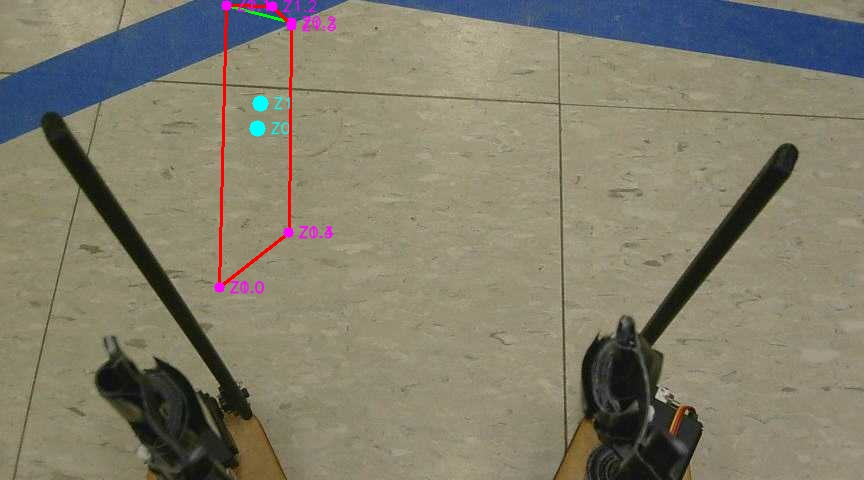
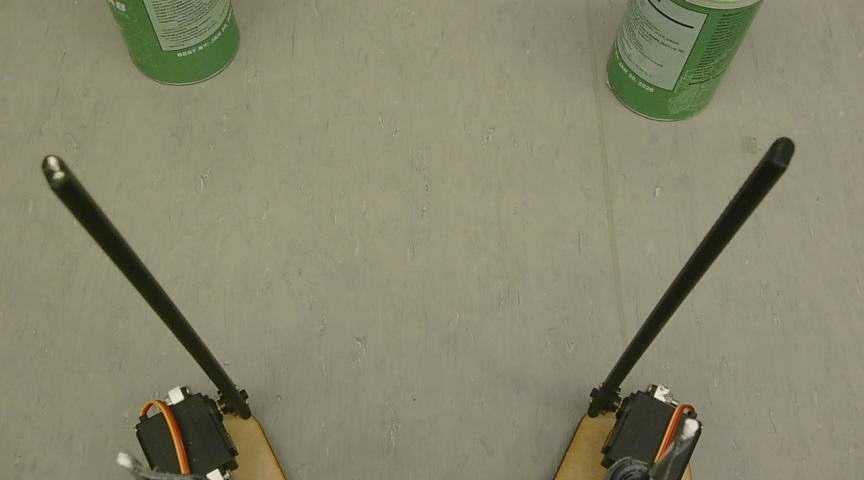
stuff

diff --git a/RobotHandler_Simple.py b/RobotHandler_Simple.py
@@ -45,7 +45,7 @@ class RobotHandlerSimple:
 
         # Memory
         # Hardcoded zone centers for testing
-        self.zones: list[np.ndarray] = []
+        self.zones: list[np.ndarray] = [np.array([0, 0])] * 3
         self.zones[GREEN_ZONE] = np.array([[1670, 584]])
         self.zones[RED_ZONE] = np.array([[990, -939.8]])
         self.zones[GOLDEN_ZONE] = np.array([[2235, -914]])
@@ -331,7 +331,7 @@ class RobotHandlerSimple:
         if distance <= ROBOT_DIAMETER / 2:
             return True
 
-        rect_length = APPROACH_OFFSET + 20
+        rect_length = APPROACH_OFFSET + 70
         rect_width = CAN_DIAMETER
         in_rectangle = (
             0 <= local_x <= rect_length and
@@ -343,9 +343,18 @@ class RobotHandlerSimple:
     def getWorldClawOffsetPosition(
             self, point: Tuple[float, float]) -> Tuple[float, float]:
         """Get position offset by claw length to approach can properly."""
-        dx, dy = world_to_relative(point, self.robot_pose)
-        gx, gy = relative_to_world(
-            (max(dx - APPROACH_OFFSET + 10, 0), dy), self.robot_pose)
+        robot_x, robot_y, _ = unpackPose(self.robot_pose)
+        dx = point[0] - robot_x
+        dy = point[1] - robot_y
+        dist = math.sqrt(dx * dx + dy * dy)
+
+        if dist < APPROACH_OFFSET:
+            return robot_x, robot_y
+
+        scale = (dist - APPROACH_OFFSET) / dist
+        gx = robot_x + dx * scale
+        gy = robot_y + dy * scale
+
         return gx, gy
 
     def thetaStarAndSend(self, x: float, y: float):
